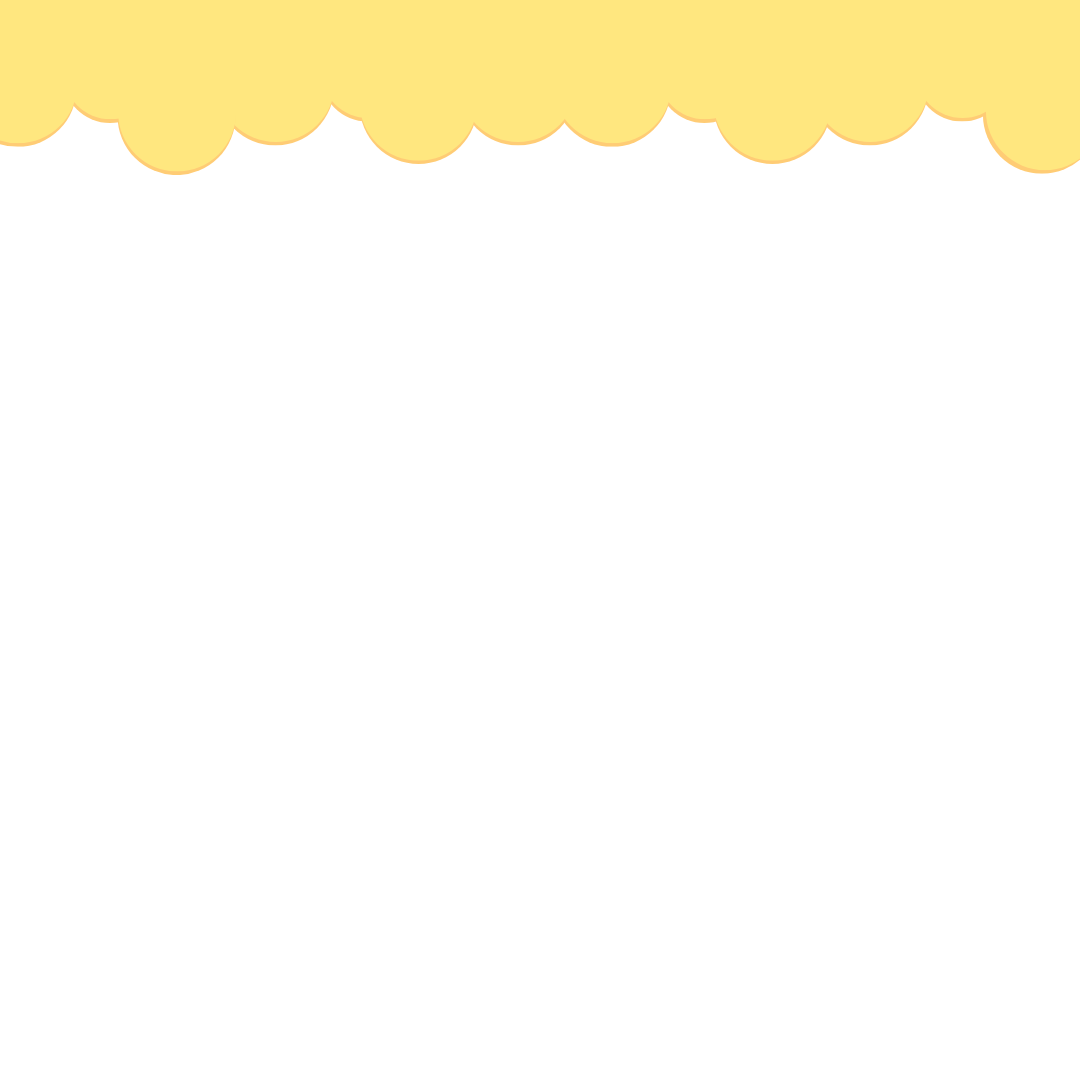
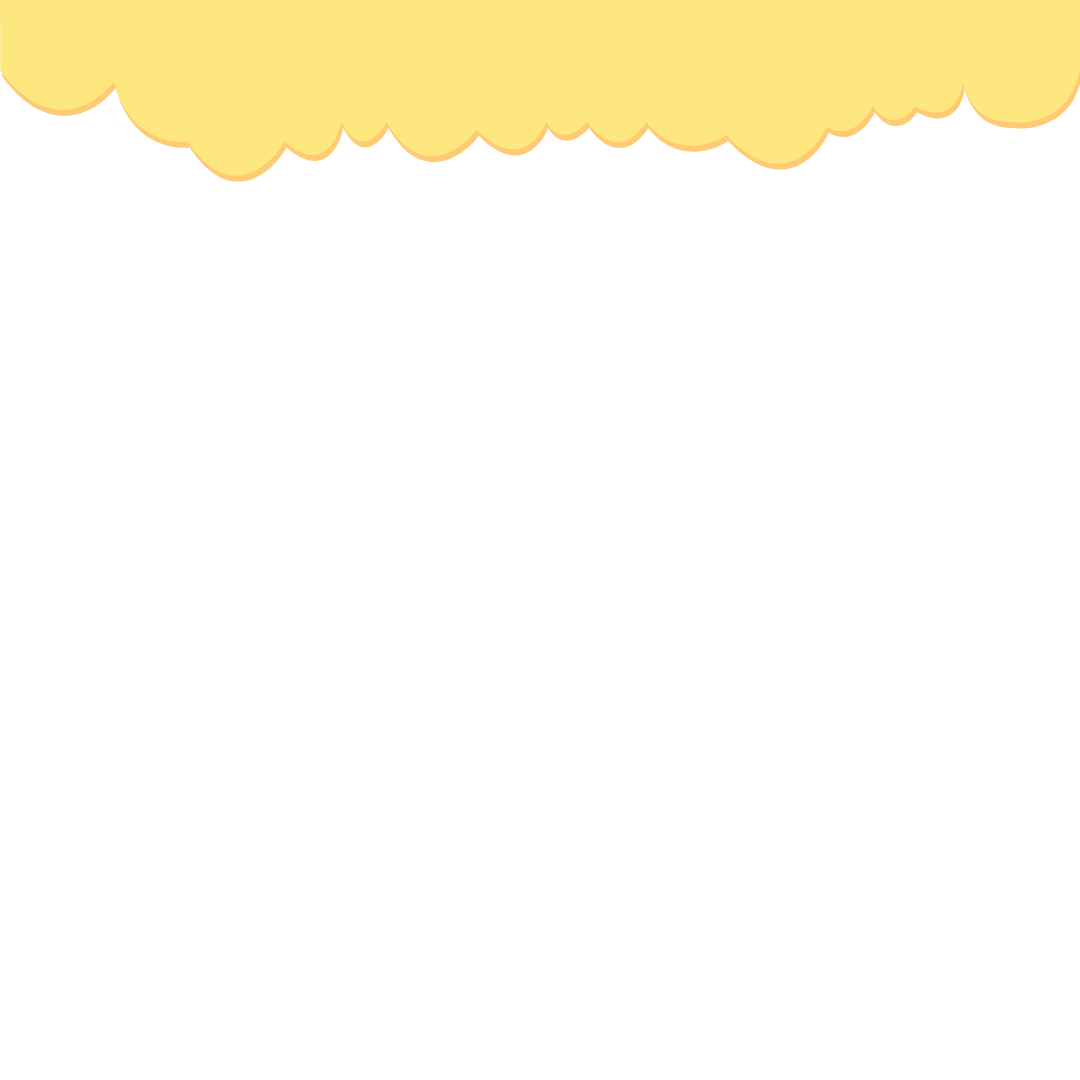
Add files via upload

Changed region(s): [[0.0, 0.0611, 1.0, 0.1833]]

diff --git a/style.css b/style.css
@@ -241,7 +241,7 @@ section
 
 #dirt
 {
-    height: 177px;
+    height: 187px;
     width: 100%;
     background-image: url('edHeader.png');
     transform: rotate(180deg);
